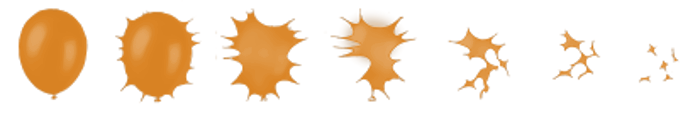
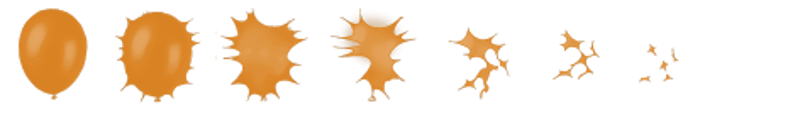
updated balloon images such that animations are correct

diff --git a/balloons.js b/balloons.js
@@ -10,6 +10,11 @@
 var mute = false;
 var FPS = 24;
 
+var questions = [	
+					{question:"5x - 4", answer:"1" , options:["2","3","1","5","4", "6"]}
+				];
+
+
 // constants (set in init function)
 var STAGE_WIDTH;
 var STAGE_HEIGHT;
@@ -31,7 +36,7 @@ var questionCounter;
 
 // text
 var scoreText;
-var questionText;
+var questionText, questionLabelText;
 
 /*
  * Handles initialization of game components
@@ -105,6 +110,7 @@ function initGraphics() {
 	initClouds();
 	initBalloons();
 	initScoreText();
+	initQuestionText();
 
 
 	gameStarted = true;
@@ -118,6 +124,23 @@ function initScoreText() {
 	scoreText.x = 5;
 	scoreText.y = 5;
 	stage.addChild(scoreText);
+}
+
+/*
+ * Adds the question text to the stage
+ */
+function initQuestionText() {
+	// question label (Ex. displays 'Question 1')
+	questionLabelText = new createjs.Text("Question " + (questionCounter + 1), '16px Lato', "white");
+	questionLabelText.x = STAGE_WIDTH/2 - questionLabelText.getMeasuredWidth()/2;
+	questionLabelText.y = 5;
+	stage.addChild(questionLabelText);
+
+	// the actual question
+	questionText = new createjs.Text(questions[questionCounter].question, '36px Lato', "white");
+	questionText.x = STAGE_WIDTH/2 - questionText.getMeasuredWidth()/2;
+	questionText.y = questionLabelText.y + questionLabelText.getMeasuredHeight() + 5;
+	stage.addChild(questionText);
 }
 
 /*
@@ -138,12 +161,19 @@ function initBalloons() {
 		var sprite = balloonSpritesArray[i];
 		sprite.x = 60 + (sprite.getBounds().width + 35) * i;
 		sprite.y = parseInt(STAGE_HEIGHT) + Math.floor(Math.random() * 40);
+		sprite.name = questions[questionCounter].options[i];
 		sprite.on("click", function(event) {balloonClickHandler(event);});
 		stage.addChild(sprite);
 
+		// balloon label
+		var label = new createjs.Text(questions[questionCounter].options[i], "36px Lato", "white");
+		label.x = sprite.x + sprite.getBounds().width/2 - label.getMeasuredWidth()/2;
+		label.y = sprite.y + sprite.getBounds().height/2 - label.getMeasuredHeight()/2;
+		stage.addChild(label);
+
 		balloonsArray.push({
 			sprite: sprite,
-			label: 2,
+			label: label,
 			speed: BALLOON_SPEED + Math.random() * 0.7
 		});
 	}
@@ -155,7 +185,7 @@ function initBalloons() {
 function loadBalloonSpriteData(filename) {
 	var spriteData = {
 		images: ["images/" + filename],
-		frames: {width:100, height:115, count:7, regX:0, regY:0, spacing:0, margin:0},
+		frames: {width:100, height:115, count:7, regX:0, regY:0, spacing:5, margin:0},
 		animations: {
 			normal: [0, false],
 			pop: [0, 6, false]
@@ -170,7 +200,36 @@ function loadBalloonSpriteData(filename) {
  * Called when a balloon is clicked
  */
 function balloonClickHandler(event) {
-	alert()
+	var id = event.target.name; // get ID of the balloon that was clicked
+
+	popBalloon(id);
+
+	if (id == questions[questionCounter].answer) { // CORRECT ANSWER
+
+
+
+
+	} else { // INCORRECT ANSWER
+
+
+
+	}
+}
+
+/*
+ * Pops a balloon by performing animation and removing from stage
+ */
+function popBalloon(id) {
+	for (var balloon of balloonsArray) {
+		if (balloon.label.text == id) { // this is the balloon to pop
+			createjs.Tween.get(balloon.sprite).call(function animate() { balloon.sprite.gotoAndPlay("pop"); }).wait(300).call(function remove() { 
+					stage.removeChild(balloon.sprite);
+					stage.removeChild(balloon.label);
+				}
+			);
+			break;
+		}
+	}
 }
 
 /*
@@ -237,7 +296,8 @@ function updateClouds() {
 function updateBalloons() {
 	var resetBalloons = true;
 	for (var balloon of balloonsArray) {
-		balloon.sprite.y-= balloon.speed;
+		balloon.sprite.y -= balloon.speed;
+		balloon.label.y = balloon.sprite.y + balloon.sprite.getBounds().height/2 - balloon.label.getMeasuredHeight()/2;
 
 		if (balloon.sprite.y + balloon.sprite.getBounds().height > 0) {
 			resetBalloons = false;
@@ -247,6 +307,7 @@ function updateBalloons() {
 		for (var balloon of balloonsArray) {
 			balloon.sprite.y = parseInt(STAGE_HEIGHT) + Math.floor(Math.random() * 40);
 			balloon.speed = BALLOON_SPEED + Math.random() * 0.7;
+			balloon.label.y = balloon.sprite.y + balloon.sprite.getBounds().height/2 - balloon.label.getMeasuredHeight()/2;
 		}
 	}
 }
